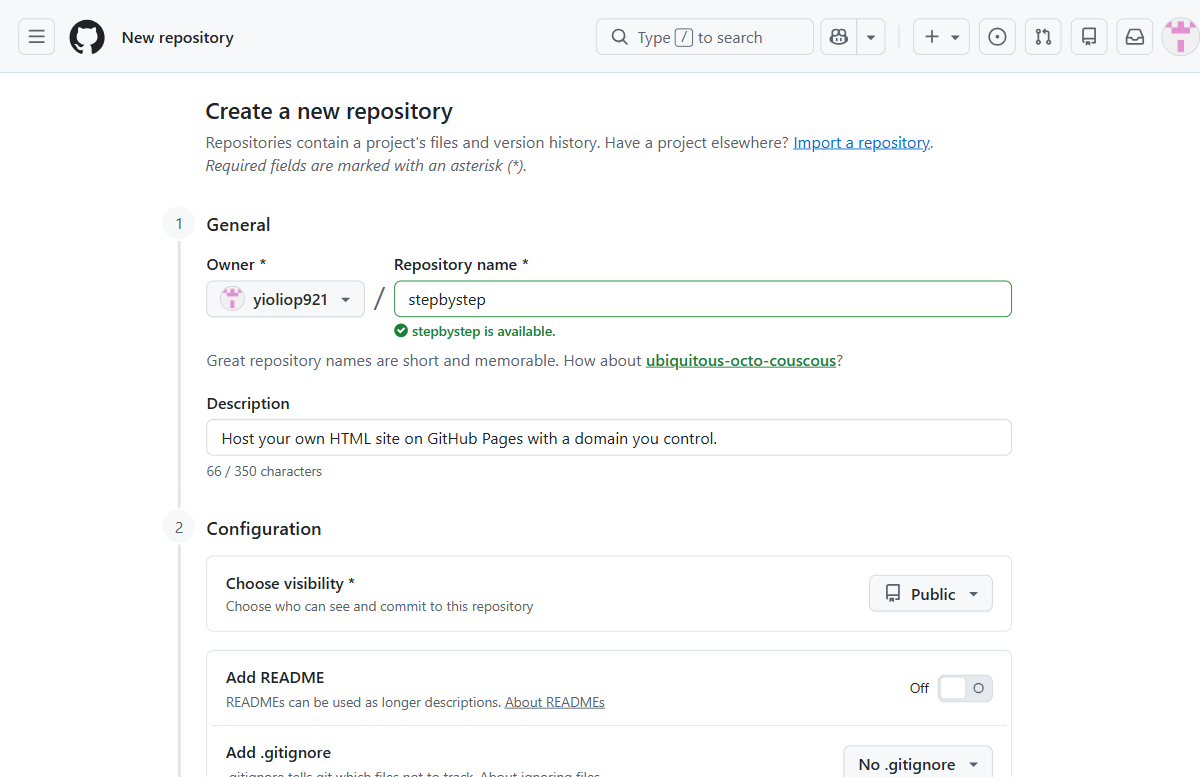
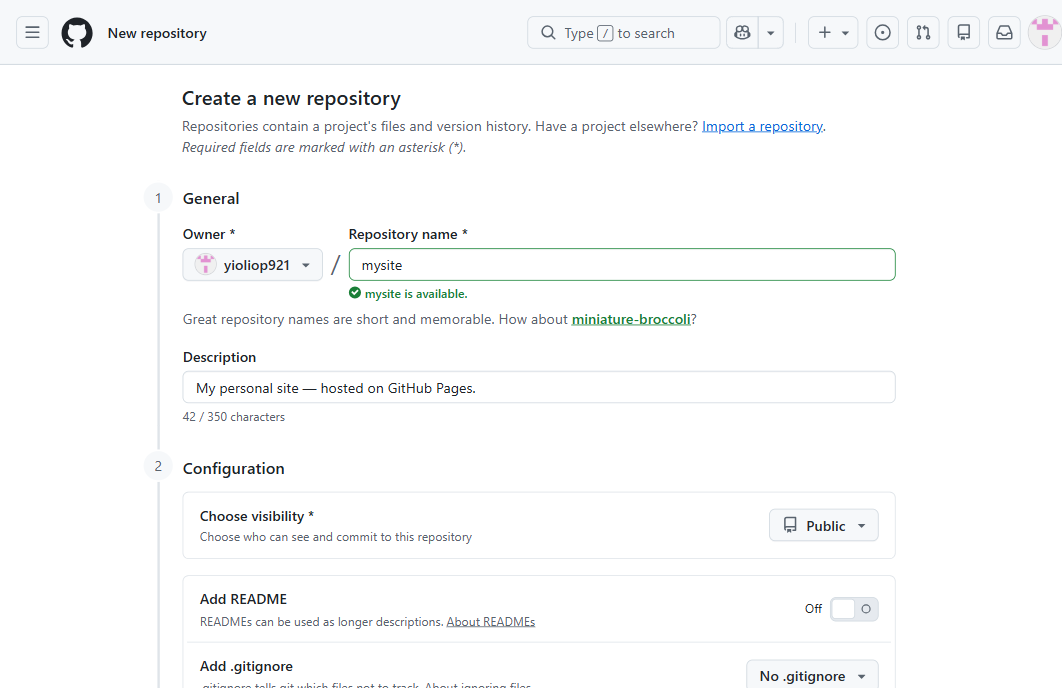
Replace screenshots with correct hostingguide captures, split Freename panels
- New GitHub screenshots taken from yioliop921/hostingguide itself, not
  reused from the older repo. Repo creation uses a generic 'mysite' name
  so it shows 'is available' rather than a red 'already exists'
- Split the tall stitched Freename capture into two landscape panels and
  cropped the empty right gutter and left nav, so each reads properly
- Reflowed the pins and legends to match the new crops

diff --git a/index.html b/index.html
@@ -432,31 +432,32 @@ git push -u origin main</code></pre>
 
   <figure>
     <div class="shot">
-      <img src="shots/07-freename-records-full.png" alt="The full Freename Records page for hostingguide.virtualsociety, showing the domain header, Wallet Address, Forward Domain toggle, the DNS Records table with A, NS and CNAME rows, and the Web3 Records table." width="1416" height="2036">
-      <span class="pin" style="left:34%;top:22%">1</span>
-      <span class="pin" style="left:34%;top:29%">2</span>
-      <span class="pin" style="left:34%;top:37%">3</span>
-      <span class="pin" style="left:34%;top:48%">4</span>
-      <span class="pin" style="left:34%;top:53%">5</span>
-      <span class="pin" style="left:34%;top:58%">6</span>
+      <img src="shots/07a-freename-top.png" alt="Freename Records page showing the domain status line, Wallet Address panel, Forward Domain toggle, and the DNS Records table with A, NS and CNAME rows." width="830" height="750">
+      <span class="pin" style="left:69%;top:5%">1</span>
+      <span class="pin" style="left:8%;top:16%">2</span>
+      <span class="pin" style="left:8%;top:38%">3</span>
+      <span class="pin" style="left:8%;top:53%">4</span>
+      <span class="pin" style="left:12%;top:73%">5</span>
+      <span class="pin" style="left:12%;top:96%">6</span>
     </div>
-    <figcaption>The whole Records page &mdash; everything in steps 04 and 05 happens here</figcaption>
+    <figcaption>Freename &rarr; your domain &rarr; <strong>Records</strong> tab</figcaption>
   </figure>
   <ol class="legend">
-    <li><span class="n">1</span><span>The <strong>Records</strong> tab, next to Overview and Email. This is the only page you need.</span></li>
-    <li><span class="n">2</span><span>Status line. <strong>&ldquo;not resolving&rdquo;</strong> here is normal before you sign &mdash; it flips once the chain catches up.</span></li>
-    <li><span class="n">3</span><span><strong>Wallet Address</strong> &mdash; where your wallet is registered for this domain. This is the account that signs your records.</span></li>
-    <li><span class="n">4</span><span><strong>Sign Transaction</strong>. <strong>This button is the whole game on a web3 domain.</strong> Everything below it is configuration until you press it.</span></li>
-    <li><span class="n">5</span><span><strong>DNS Records</strong> &mdash; your A, NS and CNAME rows. The convenience view.</span></li>
-    <li><span class="n">6</span><span><strong>Web3 Records</strong> &mdash; the <code>RECORD.A.*</code> slots. This is what the nameserver actually reads.</span></li>
+    <li><span class="n">1</span><span>Status line. <strong>&ldquo;not resolving&rdquo;</strong> here is normal before you sign &mdash; it flips once the chain catches up.</span></li>
+    <li><span class="n">2</span><span><strong>Wallet Address</strong> &mdash; the wallet registered to this domain. This is the account that signs your records.</span></li>
+    <li><span class="n">3</span><span><strong>Sign Transaction</strong> appears here once a wallet is connected. <strong>This button is the whole game on a web3 domain</strong> &mdash; everything below it is just configuration until you press it.</span></li>
+    <li><span class="n">4</span><span><strong>Forward Domain</strong> &mdash; the trap. Its own caption admits it &ldquo;will disable your root A record&rdquo;. Leave it <strong>off</strong>.</span></li>
+    <li><span class="n">5</span><span>The <strong>A</strong> row on <code>185.199.108.153</code>. This is the record that points your domain at GitHub.</span></li>
+    <li><span class="n">6</span><span>The <strong>CNAME</strong> handling <code>www</code>. The two NS rows come with the domain.</span></li>
   </ol>
 
   <div class="warn">
     <strong>Forward Domain is not what you want</strong>
     <p>
-      That toggle under Wallet Address says &ldquo;Will disable your root A record pointing to
-      185.199.108.153&rdquo;. It redirects your domain to somewhere else entirely. Leave it
-      off &mdash; you want the A record live, not redirected.
+      That toggle says &ldquo;Will disable your root A record pointing to 185.199.108.153&rdquo;.
+      Switch it on and your domain stops pointing at GitHub altogether &mdash; it forwards
+      somewhere else instead, and your site never loads. It&rsquo;s for domains you want to
+      redirect elsewhere: one for sale, an old brand pointing at a new one. Not for hosting.
     </p>
   </div>
 </section>
@@ -522,6 +523,25 @@ git push -u origin main</code></pre>
     with a <strong>Sign Transaction</strong> button. That button is what commits your saved
     records to the chain. Until you press it, you have configuration, not a live domain.
   </p>
+
+  <figure>
+    <div class="shot">
+      <img src="shots/07b-freename-web3.png" alt="The Freename Web3 Records table showing RECORD.A.0 through RECORD.A.3 with the four GitHub IPs, and REDIRECT.WEBSITE.0 with the Pages URL." width="830" height="660">
+      <span class="pin" style="left:13%;top:41%">1</span>
+      <span class="pin" style="left:13%;top:52%">2</span>
+      <span class="pin" style="left:13%;top:63%">3</span>
+      <span class="pin" style="left:13%;top:74%">4</span>
+      <span class="pin" style="left:13%;top:85%">5</span>
+    </div>
+    <figcaption>The five rows you want to see in Web3 Records</figcaption>
+  </figure>
+  <ol class="legend">
+    <li><span class="n">1</span><span><code>RECORD.A.0</code> &rarr; <code>185.199.108.153</code>. One slot, one address.</span></li>
+    <li><span class="n">2</span><span><code>RECORD.A.1</code> &rarr; <code>185.199.109.153</code></span></li>
+    <li><span class="n">3</span><span><code>RECORD.A.2</code> &rarr; <code>185.199.110.153</code></span></li>
+    <li><span class="n">4</span><span><code>RECORD.A.3</code> &rarr; <code>185.199.111.153</code></span></li>
+    <li><span class="n">5</span><span><code>REDIRECT.WEBSITE.0</code> &rarr; your Pages URL. <strong>Capital letters.</strong></span></li>
+  </ol>
 
   <div class="ok">
     <strong>What &ldquo;correct&rdquo; looks like</strong>
